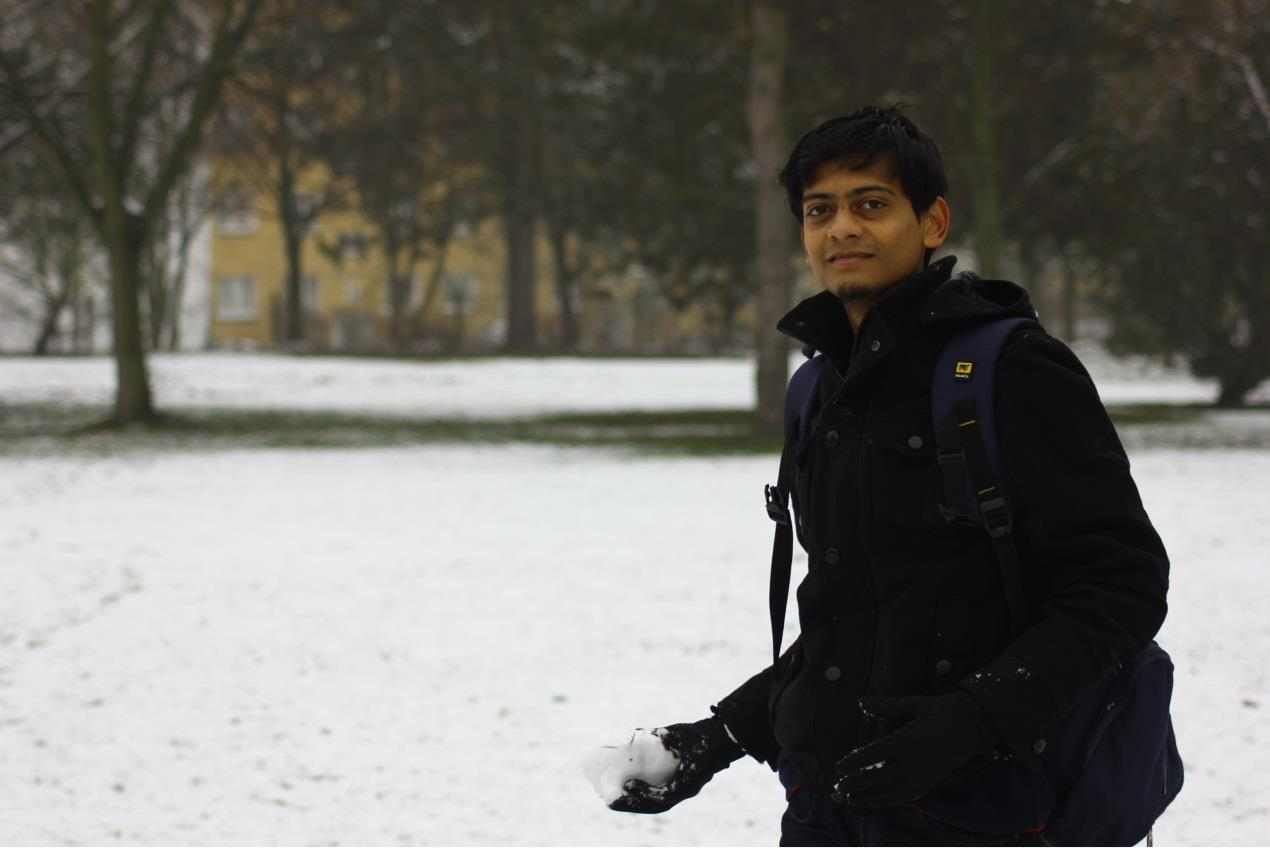
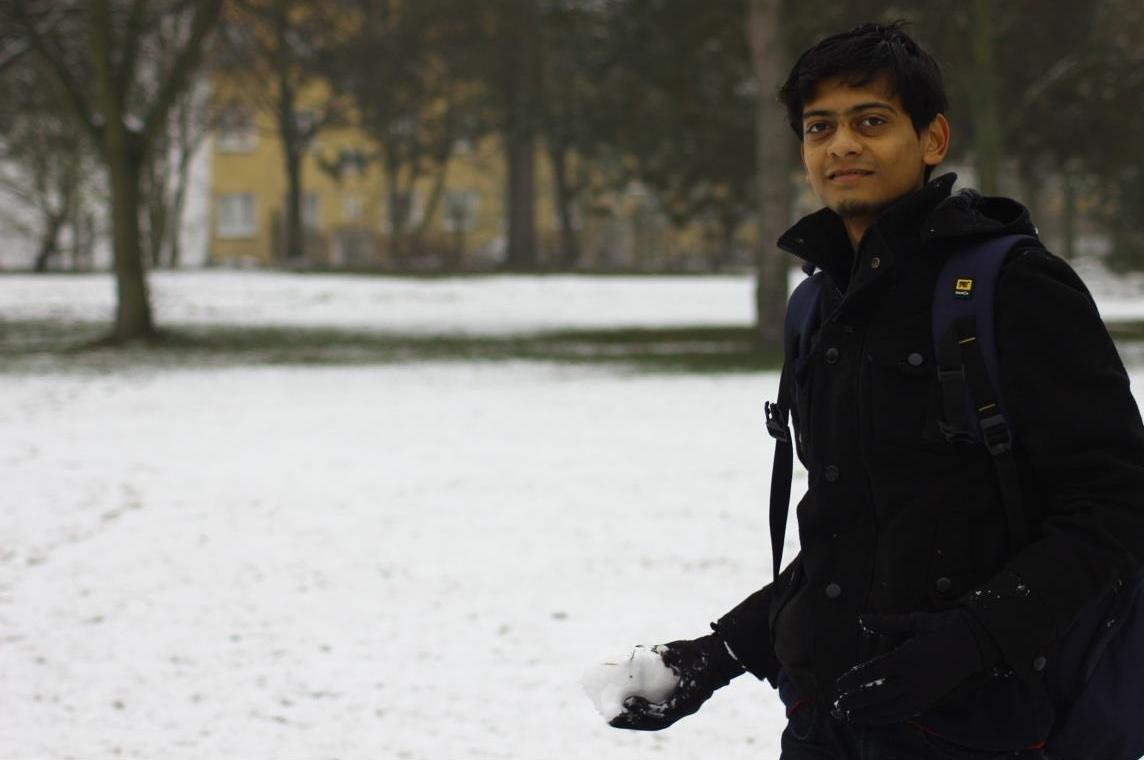
Updating bg image and CSS for intro, service and contact section.

diff --git a/css/main.css b/css/main.css
@@ -1296,7 +1296,7 @@ header .logo a {
  * ------------------------------------------------------------------- 
  */
 #intro {
-	background: #151515 url(../images/intro-bg.jpg) no-repeat center bottom;
+	background: #151515 url(../images/snow.jpg) no-repeat right top;
 	-webkit-background-size: cover;
 	-moz-background-size: cover;
 	background-size: cover;
@@ -1315,7 +1315,7 @@ header .logo a {
 	width: 100%;
 	height: 100%;
 	background: #111111;
-	opacity: .85;
+	opacity: .30;
 	/*background-color: rgba(255, 255, 255, 0.5);*/
 }
 
@@ -1356,7 +1356,7 @@ header .logo a {
 	text-transform: uppercase;
 	letter-spacing: .2rem;
 	color: #FFFFFF;
-	text-shadow: 0 0 6px rgba(0, 0, 0, 0.2);
+	font-weight: bold;
 }
 .intro-content .intro-position span {
 	display: inline-block;
@@ -2114,7 +2114,7 @@ header .logo a {
 	width: 100%;
 	height: 100%;
 	background: #151515;
-	opacity: .9;
+	opacity: .6;
 }
 
 #services .section-intro {
@@ -2267,6 +2267,23 @@ header .logo a {
 	color: rgba(255, 255, 255, 0.7);
 }
 
+
+/*#contact {*/
+	/*background: #FFFFFF;*/
+	/*padding-top: 12rem;*/
+	/*padding-bottom: 7.2rem;*/
+/*}*/
+/*!*#contact .section-intro h1 {*!*/
+/*!*color: white;*!*/
+/*!*}*!*/
+/*#contact .section-intro h5 {*/
+	/*color: #FF0077;*/
+/*}*/
+/*!*#contact .section-intro p {*!*/
+/*!*color: rgba(255, 255, 255, 0.7);*!*/
+/*!*}*!*/
+
+
 /* contact form */
 .contact-form {
 	max-width: 740px;
@@ -2339,8 +2356,8 @@ header .logo a {
 #contact input[type="text"],
 #contact input[type="password"],
 #contact input[type="email"] {
-	height: 6.6rem;
-	padding: 1.8rem 2rem;
+	height: 4rem;
+	padding: 1rem;
 }
 #contact input[type="text"]:focus,
 #contact input[type="password"]:focus,
@@ -2349,8 +2366,8 @@ header .logo a {
 	color: #FFFFFF;
 }
 #contact textarea {
-	min-height: 20rem;
-	padding: 1.8rem 2rem;
+	min-height: 12rem;
+	padding: 1rem;
 }
 #contact textarea:focus {
 	border-color: #FF0077;
